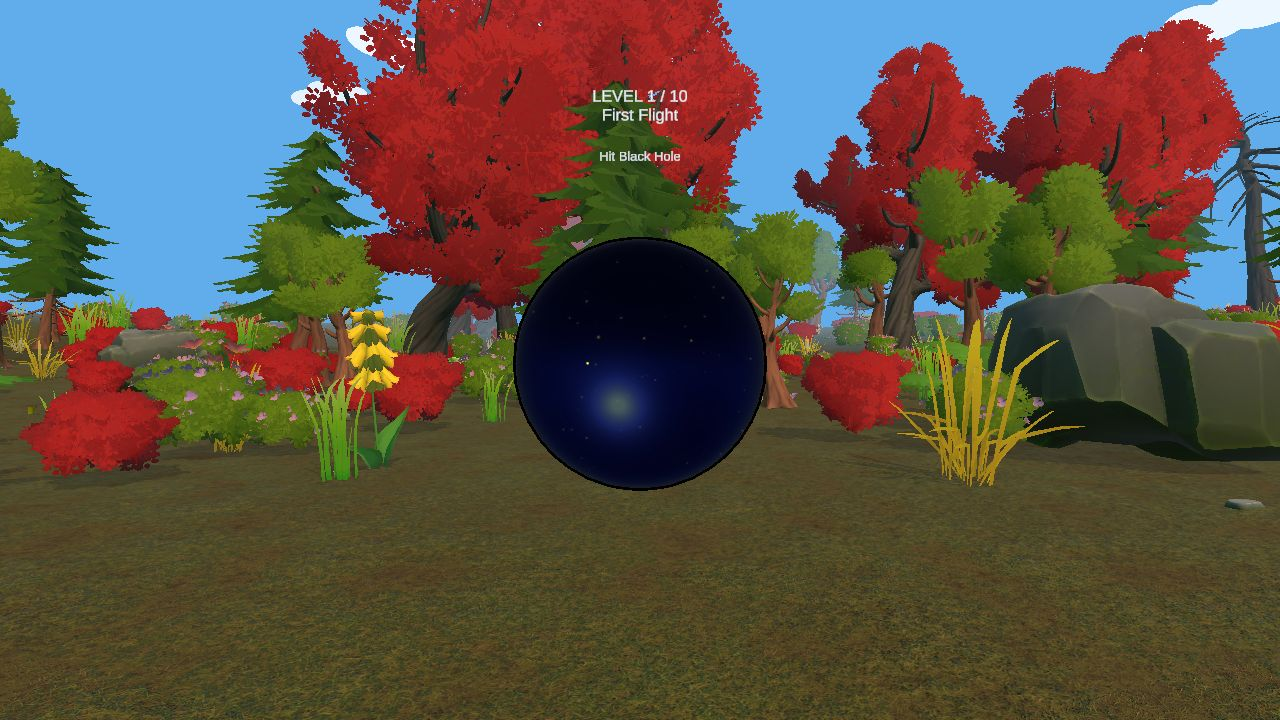
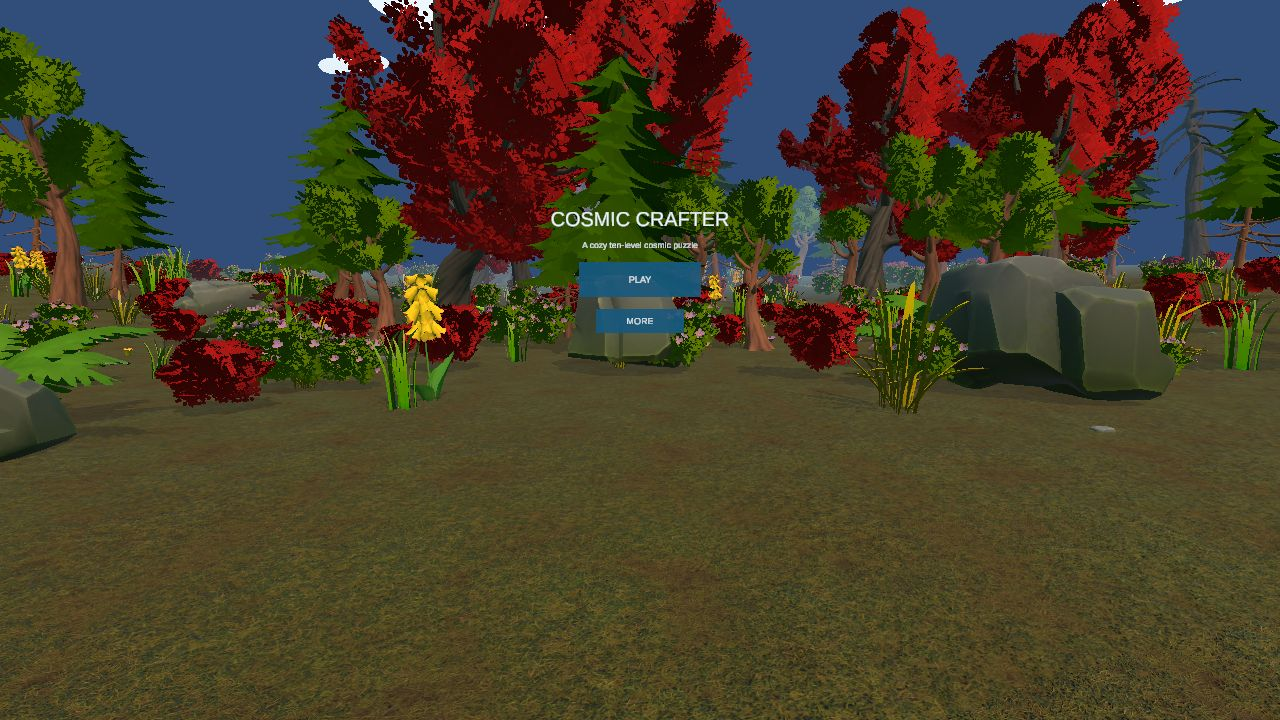
Update Cosmic Crafter portfolio screenshot

diff --git a/portfolio.html b/portfolio.html
@@ -81,7 +81,7 @@
          ↗
         </span>
        </button>
-       <img alt="Cosmic Crafter gameplay showing its forest world and cosmic orb." height="800" loading="lazy" src="/public/PortfolioImages/CosmicCrafter.jpg" width="1200"/>
+       <img alt="Cosmic Crafter’s current title screen in its forest garden, with the play menu framed by red and green trees." height="800" loading="lazy" src="/public/PortfolioImages/CosmicCrafter.jpg" width="1200"/>
       </figure>
       <div class="project-copy">
        <p class="eyebrow">
